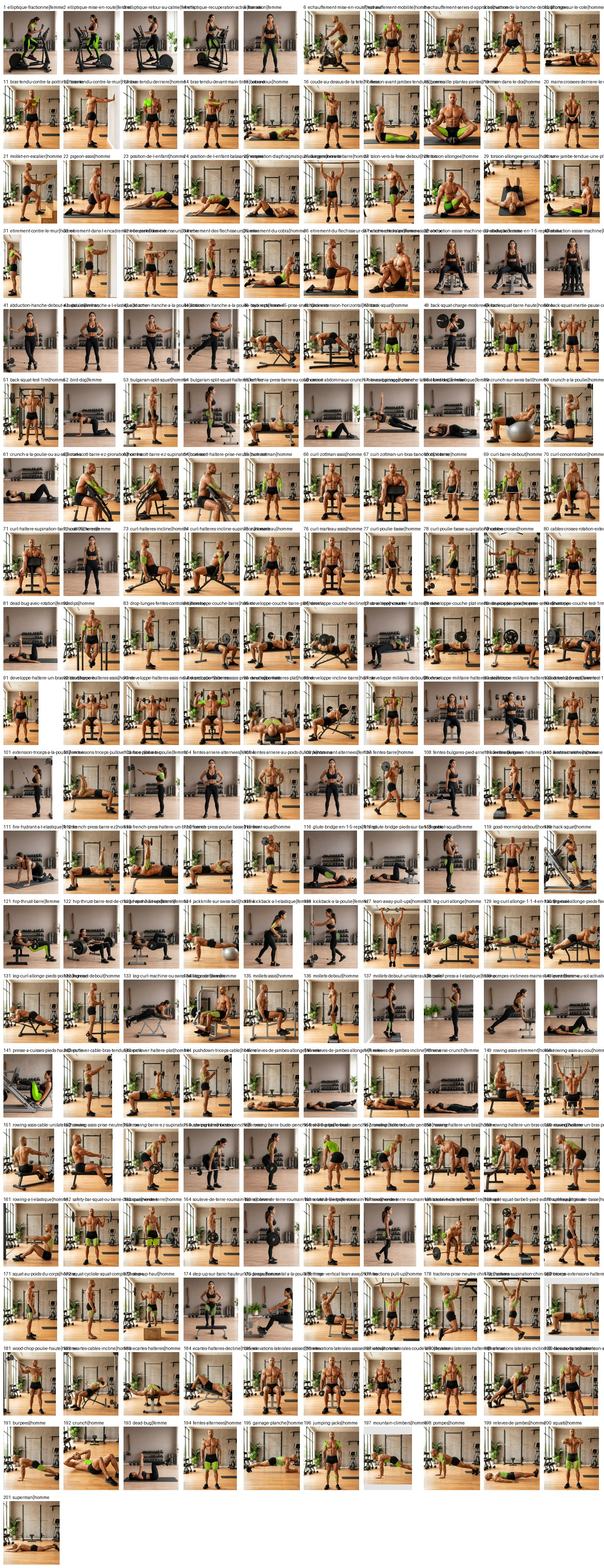
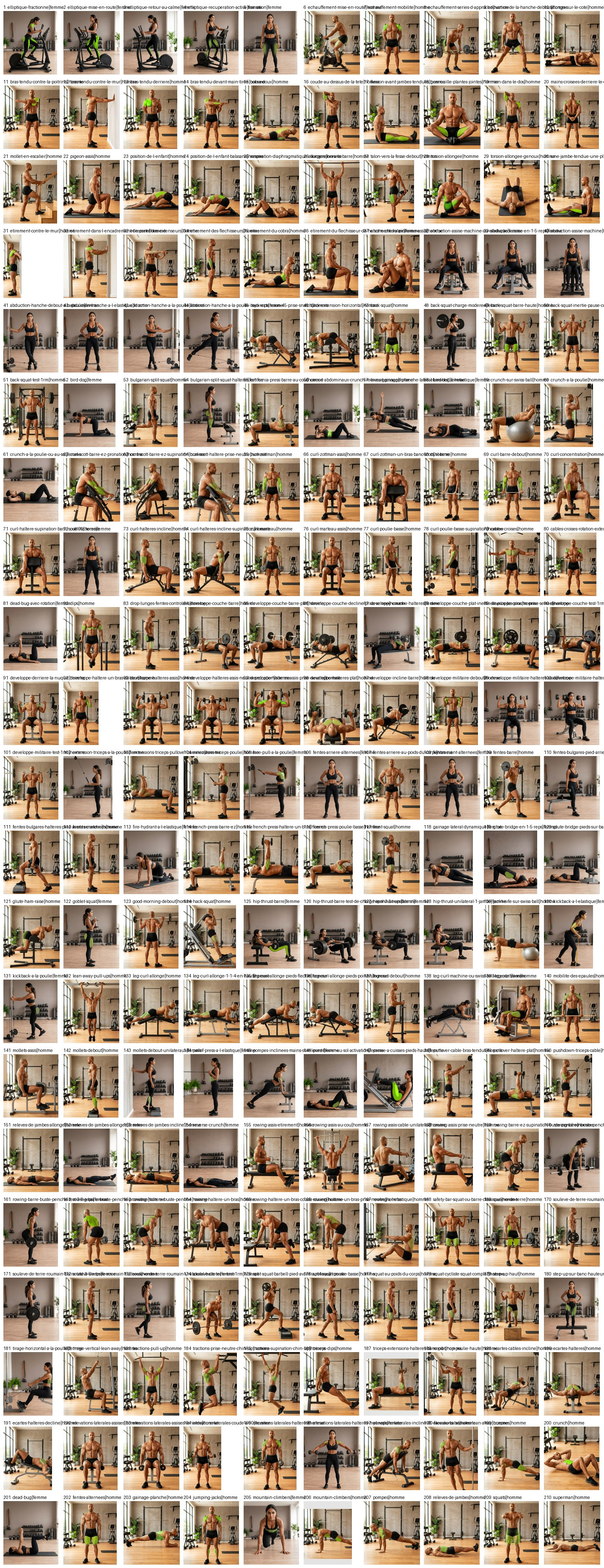
Lot 31 : mountain climbers RESOLUE par la vue de face (9e refus efface) + 8 planches acceptees, 1 refus (developpe incline halteres, 2e) ; relecture-12 3/3 ; etat 210/331, 121 restants

diff --git a/evolution/media/refonte-photo/verification/VERIFICATION-2026-09-25.md b/evolution/media/refonte-photo/verification/VERIFICATION-2026-09-25.md
@@ -264,11 +264,36 @@ gardent la meme jambe avant), developpe-incline-halteres (1er : un seul haltere 
 Relecture batch 11 : 3/3 conformes (etirement-dans-l-encadrement-de-porte, etirement-des-flechisseurs,
 etirement-du-cobra). Feuilles : `verification/lot30b-01..03.jpg`, `verification/relecture-11.jpg`.
 
-## 32. Couverture et suite
+## 32. Couverture et suite (état lot 30)
 
-Relus sur les quatorze tours : **191 couples** (38 livrés + 10 lot 17 + 12 relecture + 10 lot 18).
-Sur les **201 valides** actuels, **36 restent à relire** (feuilles de 3, mêmes outils).
-Production : **137 / 331** ; restants 194 (musculation 112, protocoles piscine 40,
-tabata au sol 27, piscine guides 9, aqua tabata 6). **3 planches en attente** dans
-`production/a-refaire.json` : rowing-barre-buste-penche-test-3-5-reps (3ᵉ refus),
-good-morning-debout (2ᵉ refus), rowing-haltere-un-bras (1ᵉʳ refus).
+Relus sur les quinze tours : **194 couples** dont 171 parmi les valides actuels.
+Production lot 30 : **201 / 331** ; restants 130 (musculation 48, protocoles piscine 40,
+tabata au sol 27, piscine guides 9, aqua tabata 6). **2 planches en attente** dans
+`production/a-refaire.json` : mountain-climbers (8ᵉ refus) et developpe-incline-halteres
+(1ᵉ refus).
+
+## 33. Lot 31 : la vue de FACE résout mountain climbers (même tour)
+
+Stratégie convenue avec l'utilisateur appliquée : mountain climbers dessiné **de face**,
+caméra basse devant l'athlète — case 1 genou avant du côté GAUCHE de l'image, case 2 du
+côté DROIT : la permutation de jambes devient enfin lisible. **9ᵉ refus effacé, planche
+acceptée.**
+Acceptées 9 : mountain-climbers (RÉSOLU), triceps-dips, extensions-triceps-poulie,
+elevations-laterales-halteres-myo-reps (reps partielles mi-hauteur→épaules),
+gainage-lateral-dynamique (hanches basses→ligne droite), hip-thrust-unilateral-1-jambe,
+glute-ham-raise (machine GHR, torse horizontal→vertical), developpe-derriere-la-nuque,
+mobilite-des-epaules (bâton cuisses→derrière le dos).
+Refusée 1 : developpe-incline-halteres (2ᵉ refus : case 1 correcte deux haltères séparés,
+case 2 un seul haltère à deux mains) → lot 32 en cases simples séparées + assemblage PIL.
+Relecture batch 12 : 3/3 conformes (etirement-du-flechisseur-de-hanche-chevalier,
+etirement-du-piriforme-assis, fentes-alternees). Feuilles : `verification/lot31b-01..04.jpg`,
+`verification/relecture-12.jpg`.
+
+## 34. Couverture et suite (état lot 31)
+
+**210 / 331 couples valides**, 121 restants (musculation 39, protocoles piscine 40,
+tabata au sol 27, piscine guides 9, aqua tabata 6). Relecture cumulative : **171 couples
+valides relus**, **39 restent à relire** (feuilles de 3, mêmes outils, aucun raccourci
+vignette). **1 planche en attente** dans `production/a-refaire.json` :
+developpe-incline-halteres (2ᵉ refus). Prochain lot 32 : cette planche en cases simples
+séparées + assemblage PIL, puis poursuite musculation (39) selon le plan.

diff --git a/evolution/media/refonte-photo/PASSATION-NOUVEAU-CHAT.md b/evolution/media/refonte-photo/PASSATION-NOUVEAU-CHAT.md
@@ -8,19 +8,20 @@ session neuve (sans mémoire de la conversation précédente) puisse continuer s
 ## 1. Où l'on en est (mesuré, pas estimé)
 
 - Dépôt : `Yandevil974/JARVIS-Fitness-Yanis-Emilie.apk`
-- Branche de travail **obligatoire** : `arena/01a0d51c-jarvis-fitness-yanis-emilie-ap`
-  (ne jamais pousser sur `main`, ne jamais créer d'autre branche).
-- Avancement : **201 / 331 animations validées** (`production/etat.json`, clé `chiffres`).
-  Restent **130** : musculation 48, piscine (protocoles) 40, tabata au sol 27,
+- Branche de travail **obligatoire** : `arena/01a0d6f5-jarvis-fitness-yanis-emilie-ap`
+  (session Arena courante ; ne jamais pousser sur `main`, ne jamais créer d'autre branche).
+- Avancement : **210 / 331 animations validées** (`production/etat.json`, clé `chiffres`).
+  Restent **121** : piscine (protocoles) 40, musculation 39, tabata au sol 27,
   piscine (guides) 9, aqua tabata 6.
   Terminés : **étirements 29 ✅, elliptique 5 ✅, échauffement 3 ✅**.
 - **Vérification des mouvements déjà créés (25/09)** : 70 couples relus case par case
   (`verification/VERIFICATION-2026-09-25.md`) ; 7 gestes faux trouvés parmi les livrés
   (4 refaits et acceptés au lot 17 ; 3 retirés des valides ce tour : back-squat-barre-haute,
-  back-squat-inertie-pause-complete, burpees) ; **69 couples restent à relire** (feuilles de 3).
+  back-squat-inertie-pause-complete, burpees) ; **39 couples restent à relire** (feuilles de 3,
+  171 déjà relus).
   Style : 21 GIF ont une case sans vert lime (`production/style-a-reprendre.json`),
   à reprendre dans un lot dédié sans toucher aux gestes.
-- Index visuel numéroté : `review/index-general.jpg` (119 vignettes, régénéré à chaque lot).
+- Index visuel numéroté : `review/index-general.jpg` (210 vignettes, régénéré à chaque lot).
 
 ## 2. Ce que l'utilisateur a demandé (et qui ne change pas)
 
@@ -116,7 +117,9 @@ $P evolution/media/tools/refonte-sheet.py --athlete homme --out $R/gif/homme \
 
 ## 7. À faire au démarrage du nouveau chat
 
-1. Reprendre les **2 planches en attente** (`production/a-refaire.json`) : mountain-climbers
+1. Reprendre la **planche en attente** (`production/a-refaire.json`) : developpe-incline-halteres
+   (2ᵉ refus, lot 32 en cases simples séparées + assemblage PIL) ; mountain-climbers résolue au lot 31
+   par la vue de FACE. Anciennement en attente : mountain-climbers
    (vue de FACE, genou avant côté gauche puis droit de l'image) et developpe-incline-halteres
    (deux haltères séparés, quatre disques). Méthode gagnante sur refus
    asymétrique : éditer la case réussie pour fabriquer l'autre. L'audit réalisme est clos : ses 6 remplacements

diff --git a/CE-QUI-COINCE.md b/CE-QUI-COINCE.md
@@ -1,18 +1,19 @@
-# 🚧 Ce qui coince — état au 25 septembre 2026, après lot 20
+# 🚧 Ce qui coince — état au 25 septembre 2026, après lot 31
 
 Liste demandée pour revue de votre côté. Tout le reste du flux tourne normalement
-(**137 / 331** visuels validés, 194 restants) ; ce fichier ne contient que les points
+(**210 / 331** visuels validés, 121 restants) ; ce fichier ne contient que les points
 bloquants ou qui demandent une décision.
 
-## 1. Les 2 planches encore refusées (je continue dessus au prochain tour)
+## 1. La planche encore refusée (je continue dessus au prochain tour)
 
 | Mouvement | Ce qui coince, mesuré | Déjà essayé | Solution prévue au prochain tour | Décision attendue de vous |
 |---|---|---|---|---|
-| **Mountain climbers (femme)** — 8 refus | la permutation de jambes n'apparaît jamais, même avec votre photo de référence comme pose | tout : prompts, éditions, cases séparées, proche/lointaine, cadrage, photo | **vue de FACE** : case 1 genou avant du côté GAUCHE de l'image, case 2 du côté DROIT (le générateur sait gérer gauche/droite) ; si échec : visuel simplifié genou haut/genou bas, validé par vous | seulement si la vue de face échoue |
-| **Développé incliné haltères (femme)** — 1 refus | un seul haltère tenu à deux mains aux deux cases | — | « DEUX haltères séparés, UN dans chaque main, QUATRE disques visibles, les mains ne se touchent jamais » | aucune |
+| **Développé incliné haltères (femme)** — 2 refus | lot30 : un seul haltère à deux mains aux deux cases ; lot31 : case 1 correcte (deux haltères séparés) mais case 2 de nouveau un seul haltère à deux mains | verrou texte « deux haltères, quatre disques, mains jamais jointes » | **lot32 : deux cases SIMPLES générées séparément** (une génération par case, un haltère par main verrouillé) **puis assemblage PIL** côte à côte — la méthode qui a résolu élévations-coude-90 (lot30) | aucune |
 
-Clos ce tour : élévations latérales coude à 90 (résolues par cases simples assemblées) et
-relevés de jambes incliné (chaussures uniques).
+Clos ce tour : **mountain climbers (femme) RÉSOLUE après 9 refus** par la **vue de FACE**
+(caméra basse devant l'athlète, genou avant à gauche de l'image case 1, à droite case 2 —
+la permutation est enfin lisible) ; élévations latérales coude à 90 (cases simples
+assemblées, lot30) ; relevés de jambes incliné (chaussures uniques, lot30).
 
 ## 2. Blocs techniques récurrents du générateur d'images (constats, pas des excuses)
 

diff --git a/PASSATION.md b/PASSATION.md
@@ -13,7 +13,7 @@ deux GIF distincts (l'un à l'homme, l'autre à la femme). L'écart inexpliqué 
 
 | Surface | Faits et vérifiés | Restants |
 |---|---|---|
-| Musculation | 154 | 48 |
+| Musculation | 163 | 39 |
 | Tabata au sol | 10 | 27 |
 | Étirements | 29 | 0 ✅ |
 | Piscine (guides) | 0 | 9 |
@@ -21,7 +21,7 @@ deux GIF distincts (l'un à l'homme, l'autre à la femme). L'écart inexpliqué 
 | Aqua Tabata | 0 | 6 |
 | Elliptique | 5 | 0 ✅ |
 | Échauffement | 3 | 0 ✅ |
-| **Total** | **201** | **130** |
+| **Total** | **210** | **121** |
 
 **25 septembre 2026 — reprise dans un nouveau chat : les mouvements déjà créés ont été
 vérifiés avant de produire.** 119 GIF livrés mesurés (`evolution/media/tools/verif-gifs.py` :
@@ -31,7 +31,7 @@ quasi-doubles) puis **38 relus case par case** en pleine définition
 (développé couché test 1RM montré assis, leg curl 1 1/4 cases inversées, dead bug rotation
 sans position dead bug, grenouille sans la posture prescrite) — refaits, relus et acceptés
 au **lot 17** avec 4 mouvements neufs (123 / 331). Deux planches restent en 3ᵉ essai
-(`production/a-refaire.json`), **75 couples valides restent à relire**, et 21 GIF ont une
+(`production/a-refaire.json`), **39 couples valides restent à relire**, et 21 GIF ont une
 case sans vert lime (`production/style-a-reprendre.json`, lot style dédié à venir).
 Détail mesuré : `evolution/media/refonte-photo/verification/VERIFICATION-2026-09-25.md`.
 
